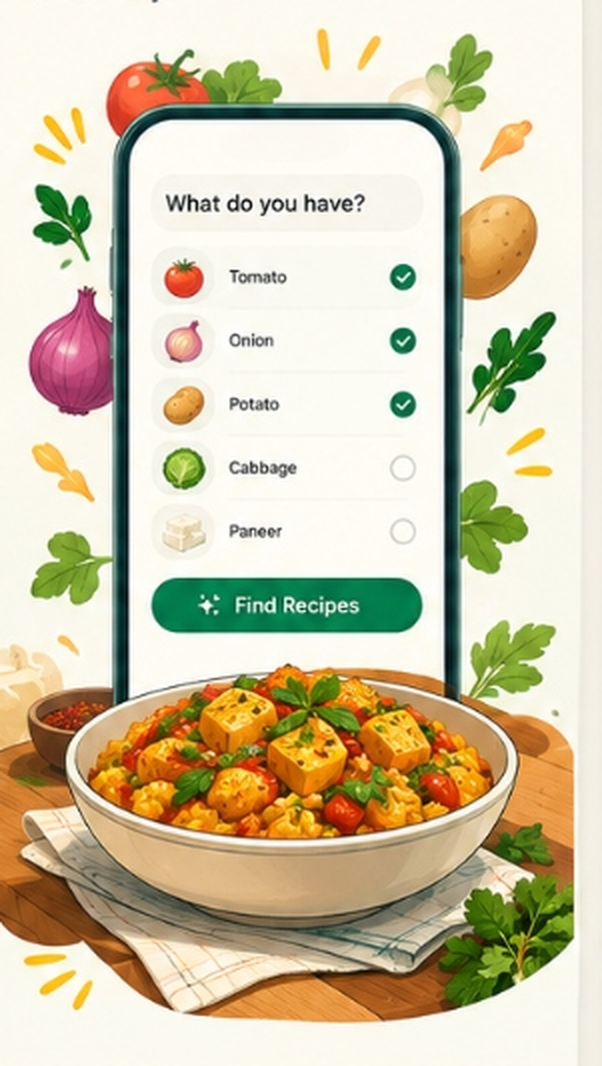
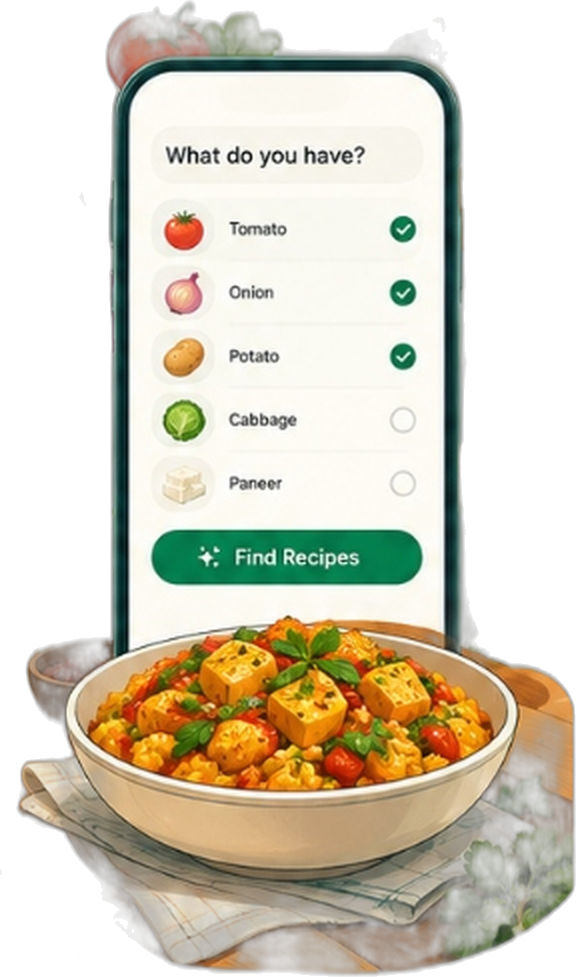
feat(onboarding): remove rectangular backgrounds for transparent artwork and refine screen hierarchy & layout spacing

diff --git a/app/src/app/onboarding.tsx b/app/src/app/onboarding.tsx
@@ -13,7 +13,6 @@ import {
 import { Image, ImageSource } from 'expo-image';
 import { useRouter } from 'expo-router';
 import { SafeAreaView } from 'react-native-safe-area-context';
-import { Colors } from '../constants/theme';
 import { useAppStore } from '../store/useAppStore';
 
 interface SlideData {
@@ -32,7 +31,7 @@ const SLIDES: SlideData[] = [
     showLogo: true,
     titleLine1: 'Aaj kya',
     titleLine2: 'banega?',
-    rayColor: '#F59E0B', // Warm saffron golden
+    rayColor: '#F59E0B', // Saffron golden rays
     subtitle: 'Your AI-powered cooking assistant for easy, tasty and healthy meals.',
     image: require('../../assets/images/onboarding-1.png'),
   },
@@ -41,7 +40,7 @@ const SLIDES: SlideData[] = [
     showLogo: false,
     titleLine1: 'Cook with',
     titleLine2: 'what you have',
-    rayColor: '#10B981', // Fresh herb green
+    rayColor: '#10B981', // Fresh herb green rays
     subtitle: "Tell us what's in your pantry, get personalized recipes instantly.",
     image: require('../../assets/images/onboarding-2.png'),
   },
@@ -50,7 +49,7 @@ const SLIDES: SlideData[] = [
     showLogo: false,
     titleLine1: 'Plan. Cook.',
     titleLine2: 'Get it Delivered.',
-    rayColor: '#F59E0B', // Saffron golden
+    rayColor: '#F59E0B', // Saffron golden rays
     subtitle: 'Save your meals, plan your week and get ingredients from Instamart with one tap.',
     image: require('../../assets/images/onboarding-3.png'),
   },
@@ -91,13 +90,13 @@ export default function OnboardingScreen() {
     const floatLoop = Animated.loop(
       Animated.sequence([
         Animated.timing(floatAnim, {
-          toValue: -5,
+          toValue: -6,
           duration: 1800,
           easing: Easing.inOut(Easing.sin),
           useNativeDriver: true,
         }),
         Animated.timing(floatAnim, {
-          toValue: 5,
+          toValue: 6,
           duration: 1800,
           easing: Easing.inOut(Easing.sin),
           useNativeDriver: true,
@@ -120,8 +119,8 @@ export default function OnboardingScreen() {
         friction: 10,
       }).start();
 
-      imageScaleAnim.setValue(0.94);
-      textFadeAnim.setValue(0.4);
+      imageScaleAnim.setValue(0.93);
+      textFadeAnim.setValue(0.3);
       Animated.parallel([
         Animated.spring(imageScaleAnim, {
           toValue: 1,
@@ -139,7 +138,7 @@ export default function OnboardingScreen() {
     [slideWidth, translateX, imageScaleAnim, textFadeAnim]
   );
 
-  // PanResponder for smooth finger swipe
+  // PanResponder for finger and mouse swipe gestures
   const panResponder = useRef(
     PanResponder.create({
       onStartShouldSetPanResponder: () => false,
@@ -178,7 +177,7 @@ export default function OnboardingScreen() {
     })
   ).current;
 
-  // Web keyboard navigation (Left/Right Arrow keys)
+  // Web keyboard navigation
   useEffect(() => {
     if (Platform.OS === 'web' && typeof window !== 'undefined') {
       const handleKeyDown = (e: KeyboardEvent) => {
@@ -225,10 +224,13 @@ export default function OnboardingScreen() {
 
   const isLast = currentIndex === SLIDES.length - 1;
 
+  // Dynamic illustration max height based on available screen height
+  const illustrationMaxHeight = Math.min(windowHeight * 0.44, 360);
+
   return (
     <SafeAreaView style={styles.safeArea}>
       <View style={[styles.container, { maxWidth: slideWidth }]}>
-        {/* Top Header Row with Skip button */}
+        {/* Top Header Row with Skip Button on Right */}
         <View style={styles.topHeaderRow}>
           <View style={styles.topHeaderLeftPlaceholder} />
           <Pressable
@@ -260,14 +262,17 @@ export default function OnboardingScreen() {
                   key={slide.id}
                   style={[styles.slideItem, { width: slideWidth }]}
                 >
-                  {/* Top Content Area: Logo (Screen 1) + Heading + Subtitle */}
+                  {/* Top Text Content Area */}
                   <Animated.View
                     style={[
                       styles.topContentGroup,
-                      { opacity: isCurrent ? textFadeAnim : 1 },
+                      {
+                        opacity: isCurrent ? textFadeAnim : 1,
+                        paddingTop: slide.showLogo ? 0 : 12,
+                      },
                     ]}
                   >
-                    {/* Screen 1 Centered Official Brand Logo */}
+                    {/* Screen 1 Centered Brand Logo */}
                     {slide.showLogo && (
                       <View style={styles.brandLogoRow}>
                         <Image
@@ -279,7 +284,7 @@ export default function OnboardingScreen() {
                       </View>
                     )}
 
-                    {/* Bold Organic Dark Green Heading */}
+                    {/* Bold Organic Forest Green Title */}
                     <View style={styles.headingContainer}>
                       <Text style={styles.titleLine1}>{slide.titleLine1}</Text>
                       <View style={styles.titleLine2Row}>
@@ -288,11 +293,11 @@ export default function OnboardingScreen() {
                       </View>
                     </View>
 
-                    {/* Clean Subtitle */}
+                    {/* Subtitle */}
                     <Text style={styles.subtitle}>{slide.subtitle}</Text>
                   </Animated.View>
 
-                  {/* Hero Illustration Container matching reference cards */}
+                  {/* Centered Transparent Hero Illustration */}
                   <View style={styles.imageContainer}>
                     <Animated.View
                       style={[
@@ -309,12 +314,7 @@ export default function OnboardingScreen() {
                         source={slide.image}
                         style={[
                           styles.heroIllustration,
-                          slide.id === '1'
-                            ? styles.heroIllustration1
-                            : styles.heroIllustrationTall,
-                          {
-                            maxHeight: windowHeight * (slide.id === '1' ? 0.42 : 0.46),
-                          },
+                          { height: illustrationMaxHeight },
                         ]}
                         contentFit="contain"
                         priority="high"
@@ -327,7 +327,7 @@ export default function OnboardingScreen() {
           </Animated.View>
         </View>
 
-        {/* Bottom Navigation Area: Pagination Dots + Dark Forest Green Pill Button */}
+        {/* Bottom Navigation Area: Pagination Dots + Forest Green Button */}
         <View style={styles.bottomArea}>
           {/* Centered Pagination Dots */}
           <View style={styles.dotsRow}>
@@ -346,7 +346,7 @@ export default function OnboardingScreen() {
             ))}
           </View>
 
-          {/* Large Forest Green Pill Button */}
+          {/* Action Button */}
           {isLast ? (
             <View style={styles.lastActionContainer}>
               <Pressable
@@ -401,9 +401,9 @@ const styles = StyleSheet.create({
     flexDirection: 'row',
     alignItems: 'center',
     justifyContent: 'space-between',
-    paddingHorizontal: 24,
+    paddingHorizontal: 26,
     paddingTop: 8,
-    paddingBottom: 4,
+    paddingBottom: 2,
     zIndex: 10,
   },
   topHeaderLeftPlaceholder: {
@@ -416,7 +416,7 @@ const styles = StyleSheet.create({
   skipBtnText: {
     fontFamily: 'Inter_500Medium',
     fontSize: 15,
-    color: '#606C62',
+    color: '#657368',
   },
   carouselContainer: {
     flex: 1,
@@ -428,7 +428,7 @@ const styles = StyleSheet.create({
   },
   slideItem: {
     flex: 1,
-    paddingHorizontal: 26,
+    paddingHorizontal: 28,
     justifyContent: 'space-between',
   },
   topContentGroup: {
@@ -439,21 +439,21 @@ const styles = StyleSheet.create({
     width: '100%',
     alignItems: 'center',
     justifyContent: 'center',
-    marginBottom: 12,
+    marginBottom: 8,
   },
   screenBrandLogo: {
-    width: 140,
-    height: 74,
+    width: 130,
+    height: 70,
   },
   headingContainer: {
-    marginTop: 4,
+    marginTop: 2,
   },
   titleLine1: {
     fontFamily: 'Poppins_700Bold',
-    fontSize: 34,
+    fontSize: 32,
     color: '#0B3A2C',
-    lineHeight: 40,
-    letterSpacing: -0.6,
+    lineHeight: 38,
+    letterSpacing: -0.5,
   },
   titleLine2Row: {
     flexDirection: 'row',
@@ -461,10 +461,10 @@ const styles = StyleSheet.create({
   },
   titleLine2: {
     fontFamily: 'Poppins_700Bold',
-    fontSize: 34,
+    fontSize: 32,
     color: '#0B3A2C',
-    lineHeight: 40,
-    letterSpacing: -0.6,
+    lineHeight: 38,
+    letterSpacing: -0.5,
   },
   raysContainer: {
     flexDirection: 'row',
@@ -481,20 +481,20 @@ const styles = StyleSheet.create({
   rayTop: {
     width: 12,
     height: 3,
-    top: 3,
+    top: 4,
     left: 2,
     transform: [{ rotate: '-25deg' }],
   },
   rayMid: {
     width: 15,
     height: 3,
-    top: 12,
+    top: 13,
     left: 4,
   },
   rayBot: {
     width: 12,
     height: 3,
-    bottom: 3,
+    bottom: 4,
     left: 2,
     transform: [{ rotate: '25deg' }],
   },
@@ -511,7 +511,7 @@ const styles = StyleSheet.create({
     alignItems: 'center',
     justifyContent: 'center',
     width: '100%',
-    paddingVertical: 6,
+    paddingVertical: 8,
   },
   imageAnimatedWrapper: {
     width: '100%',
@@ -521,16 +521,10 @@ const styles = StyleSheet.create({
   heroIllustration: {
     width: '100%',
   },
-  heroIllustration1: {
-    height: 270,
-  },
-  heroIllustrationTall: {
-    height: 330,
-  },
   bottomArea: {
-    paddingHorizontal: 24,
+    paddingHorizontal: 26,
     paddingBottom: 24,
-    paddingTop: 10,
+    paddingTop: 8,
     width: '100%',
     alignItems: 'center',
     zIndex: 10,
@@ -540,7 +534,7 @@ const styles = StyleSheet.create({
     alignItems: 'center',
     justifyContent: 'center',
     gap: 8,
-    marginBottom: 18,
+    marginBottom: 16,
   },
   dot: {
     height: 8,
